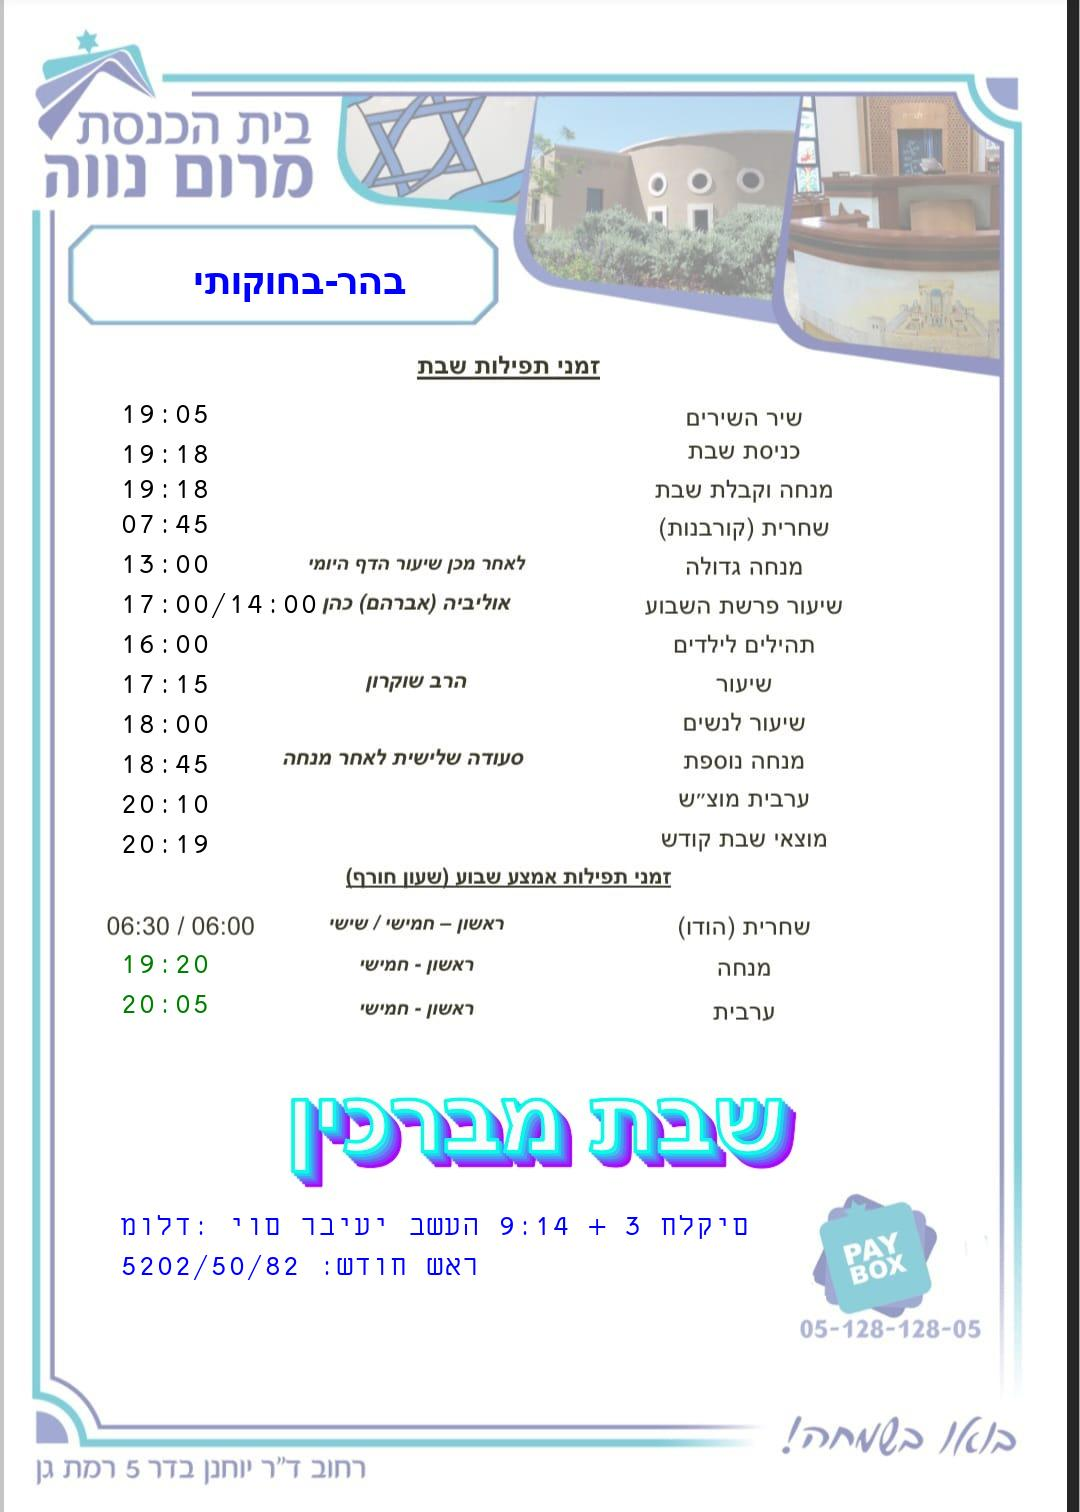
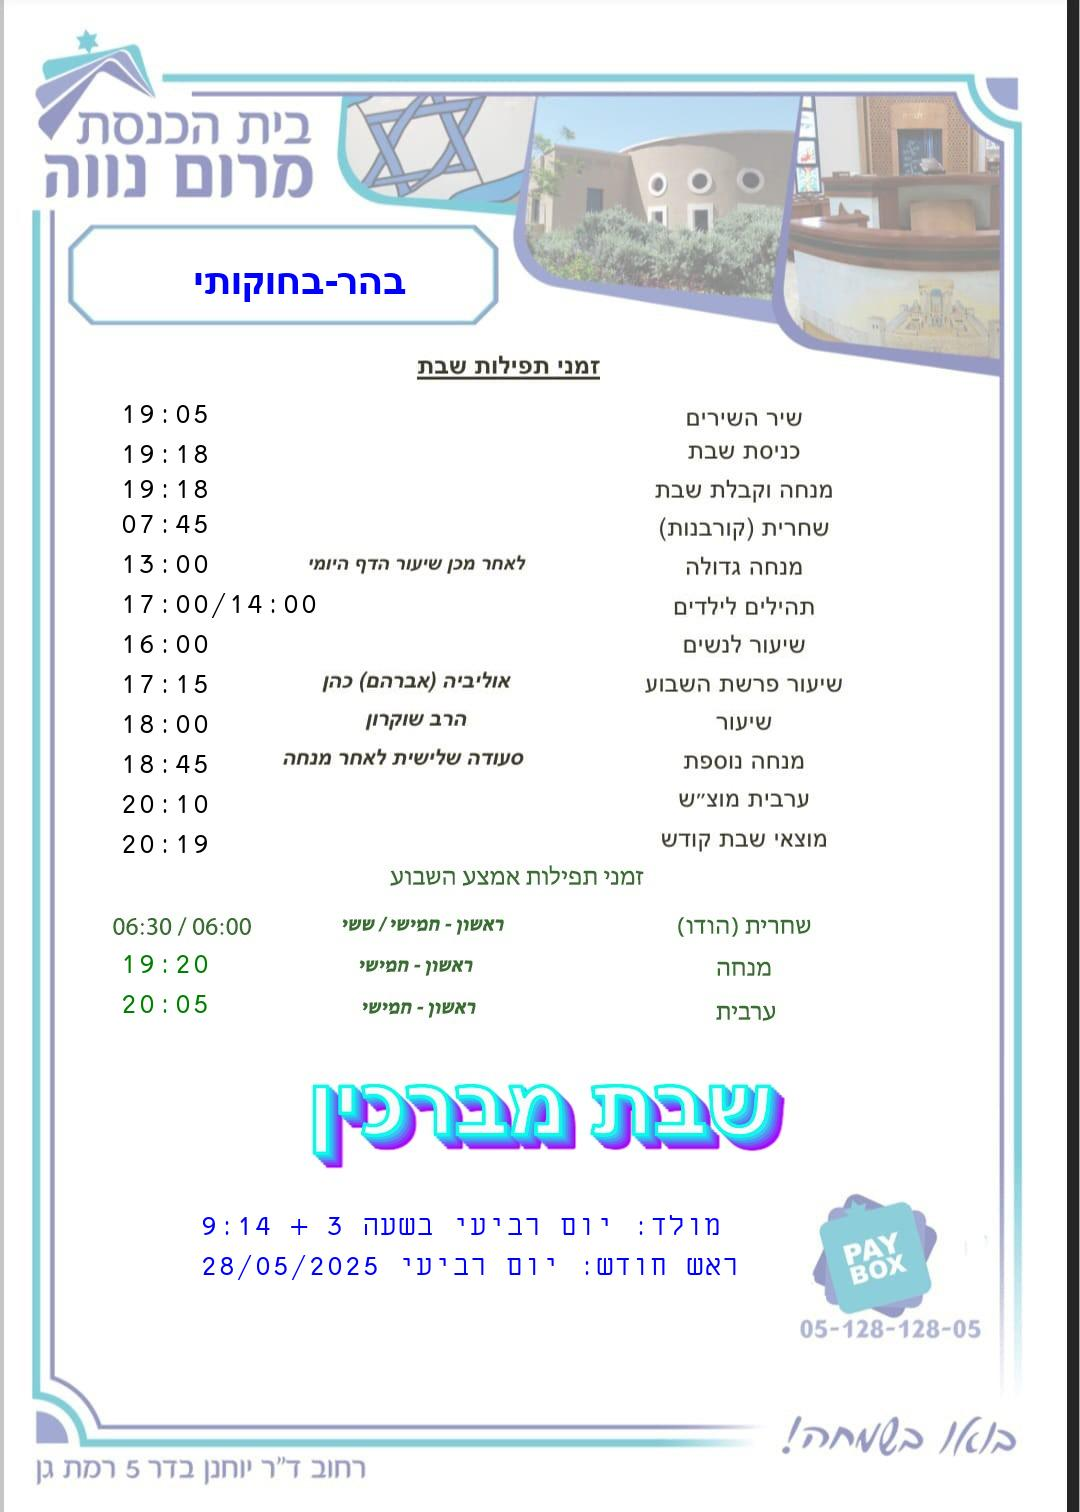
הופעה של מולד ור"ח

diff --git a/horaires_shabbat.py b/horaires_shabbat.py
@@ -39,16 +39,14 @@ def get_weekday_name_hebrew(dt):
 def calculate_molad_for_date(gregorian_date):
     jc = JewishCalendar(datetime.combine(gregorian_date, datetime.min.time()))
     molad_obj = jc.molad()
-    hour     = molad_obj.molad_hours
-    minute   = molad_obj.molad_minutes
+    hour = molad_obj.molad_hours
+    minute = molad_obj.molad_minutes
     chalakim = molad_obj.molad_chalakim
-    jm = jc.jewish_month
-    jy = jc.jewish_year
-    month_name = get_jewish_month_name_hebrew(jm, jy)
     weekday_he = get_weekday_name_hebrew(gregorian_date)
-    # Exemple : מולד: יום שני בשעה 20:35 + 2 חלקים
-    molad_str = f"מולד: יום {weekday_he} בשעה {hour}:{str(minute).zfill(2)} + {chalakim} חלקים"
-    return reverse_hebrew_text(molad_str)
+    # Séparation du texte hébreu (inversé) et des chiffres (droits)
+    hebrew_part = f"מולד: יום {weekday_he} בשעה "
+    molad_str = f"{hour}:{str(minute).zfill(2)} + {chalakim}" + reverse_hebrew_text(hebrew_part)
+    return molad_str
 
 def find_next_rosh_chodesh(start_date=None):
     current = start_date or date.today()
@@ -403,19 +401,26 @@ class ShabbatScheduleGenerator:
                 # MOLAD + ROCH HODESH (pour שבת מברכין)
                 if is_mevarchim:
                     rc_date = find_next_rosh_chodesh(shabbat_date)
-                    molad_str = calculate_molad_for_date(rc_date)
-                    molad_str = reverse_hebrew_text(molad_str)
+                    molad_str = calculate_molad_for_date(rc_date)  # NE PAS inverser ici !
+                    # molad_str = reverse_hebrew_text(molad_str)
                     draw.text(
-                        (120, img_h - 300),  # Position du molad (X, Y)
+                        (200, img_h - 300),  # Position du molad (X, Y)
                         molad_str,
                         fill="blue",
                         font=font
                     )
-                    rosh_chodesh_str = f"ראש חודש: {rc_date.strftime('%d/%m/%Y')}"
-                    rosh_chodesh_str = reverse_hebrew_text(rosh_chodesh_str)
+               # Construction de la ligne ראש חודש :
+               # Ajout du jour hébreu pour ראש חודש
+                    day_name_he = get_weekday_name_hebrew(rc_date)
+                    hebrew_part = f"ראש חודש: יום {day_name_he} "
+                    date_part = rc_date.strftime('%d/%m/%Y')
+               # On inverse la partie hébreu mais PAS la date                    
+                    rosh_chodesh_line = date_part + reverse_hebrew_text(hebrew_part) # + date_part
+                     # rosh_chodesh_str = f"ראש חודש: {day_name_he} {rc_date.strftime('%d/%m/%Y')}"
+                    # rosh_chodesh_str = reverse_hebrew_text(rosh_chodesh_str)
                     draw.text(
-                        (120, img_h - 260),  # Même X, 40 pixels plus bas que le molad
-                        rosh_chodesh_str,
+                        (200, img_h - 260),  # Même X, 40 pixels plus bas que le molad
+                        rosh_chodesh_line,
                         fill="blue",
                         font=font
                     )

diff --git a/united3.py b/united3.py
@@ -39,16 +39,14 @@ def get_weekday_name_hebrew(dt):
 def calculate_molad_for_date(gregorian_date):
     jc = JewishCalendar(datetime.combine(gregorian_date, datetime.min.time()))
     molad_obj = jc.molad()
-    hour     = molad_obj.molad_hours
-    minute   = molad_obj.molad_minutes
+    hour = molad_obj.molad_hours
+    minute = molad_obj.molad_minutes
     chalakim = molad_obj.molad_chalakim
-    jm = jc.jewish_month
-    jy = jc.jewish_year
-    month_name = get_jewish_month_name_hebrew(jm, jy)
     weekday_he = get_weekday_name_hebrew(gregorian_date)
-    # Exemple : מולד: יום שני בשעה 20:35 + 2 חלקים
-    molad_str = f"מולד: יום {weekday_he} בשעה {hour}:{str(minute).zfill(2)} + {chalakim} חלקים"
-    return reverse_hebrew_text(molad_str)
+    # Séparation du texte hébreu (inversé) et des chiffres (droits)
+    hebrew_part = f"מולד: יום {weekday_he} בשעה "
+    molad_str = f"{hour}:{str(minute).zfill(2)} + {chalakim}" + reverse_hebrew_text(hebrew_part)
+    return molad_str
 
 def find_next_rosh_chodesh(start_date=None):
     current = start_date or date.today()
@@ -403,19 +401,26 @@ class ShabbatScheduleGenerator:
                 # MOLAD + ROCH HODESH (pour שבת מברכין)
                 if is_mevarchim:
                     rc_date = find_next_rosh_chodesh(shabbat_date)
-                    molad_str = calculate_molad_for_date(rc_date)
-                    molad_str = reverse_hebrew_text(molad_str)
+                    molad_str = calculate_molad_for_date(rc_date)  # NE PAS inverser ici !
+                    # molad_str = reverse_hebrew_text(molad_str)
                     draw.text(
-                        (120, img_h - 300),  # Position du molad (X, Y)
+                        (200, img_h - 300),  # Position du molad (X, Y)
                         molad_str,
                         fill="blue",
                         font=font
                     )
-                    rosh_chodesh_str = f"ראש חודש: {rc_date.strftime('%d/%m/%Y')}"
-                    rosh_chodesh_str = reverse_hebrew_text(rosh_chodesh_str)
+               # Construction de la ligne ראש חודש :
+               # Ajout du jour hébreu pour ראש חודש
+                    day_name_he = get_weekday_name_hebrew(rc_date)
+                    hebrew_part = f"ראש חודש: יום {day_name_he} "
+                    date_part = rc_date.strftime('%d/%m/%Y')
+               # On inverse la partie hébreu mais PAS la date                    
+                    rosh_chodesh_line = date_part + reverse_hebrew_text(hebrew_part) # + date_part
+                     # rosh_chodesh_str = f"ראש חודש: {day_name_he} {rc_date.strftime('%d/%m/%Y')}"
+                    # rosh_chodesh_str = reverse_hebrew_text(rosh_chodesh_str)
                     draw.text(
-                        (120, img_h - 260),  # Même X, 40 pixels plus bas que le molad
-                        rosh_chodesh_str,
+                        (200, img_h - 260),  # Même X, 40 pixels plus bas que le molad
+                        rosh_chodesh_line,
                         fill="blue",
                         font=font
                     )
